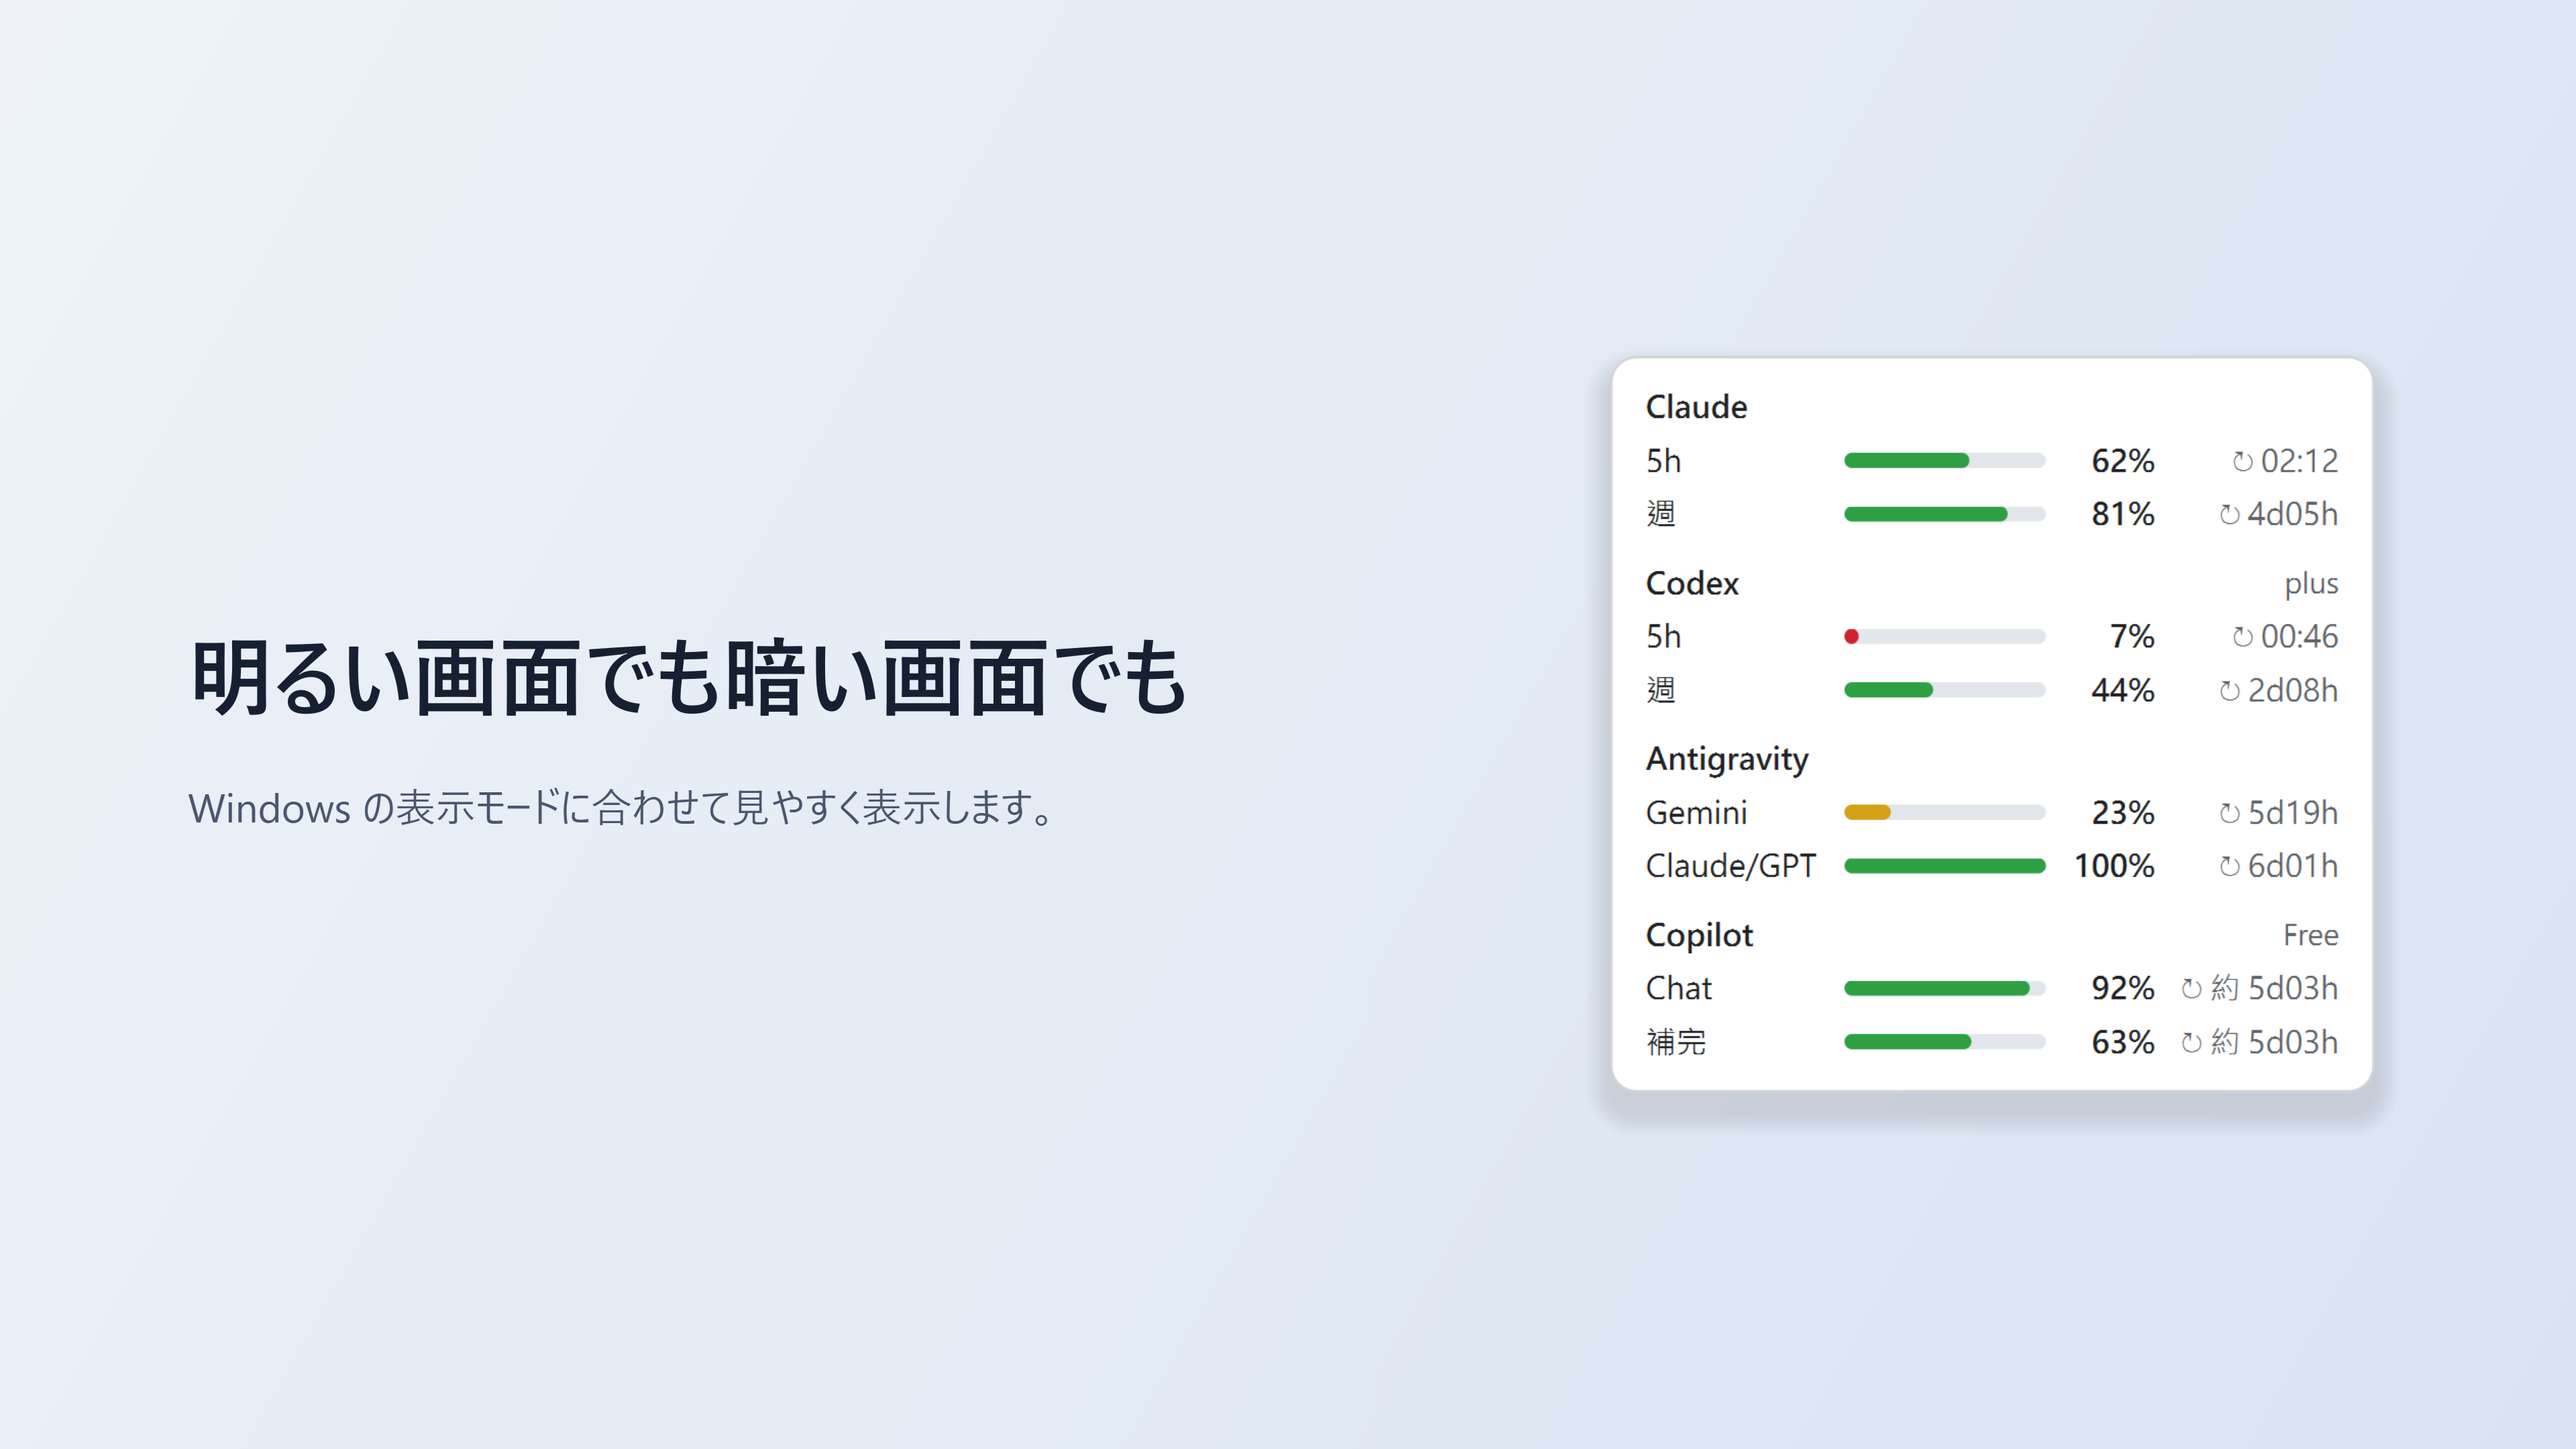
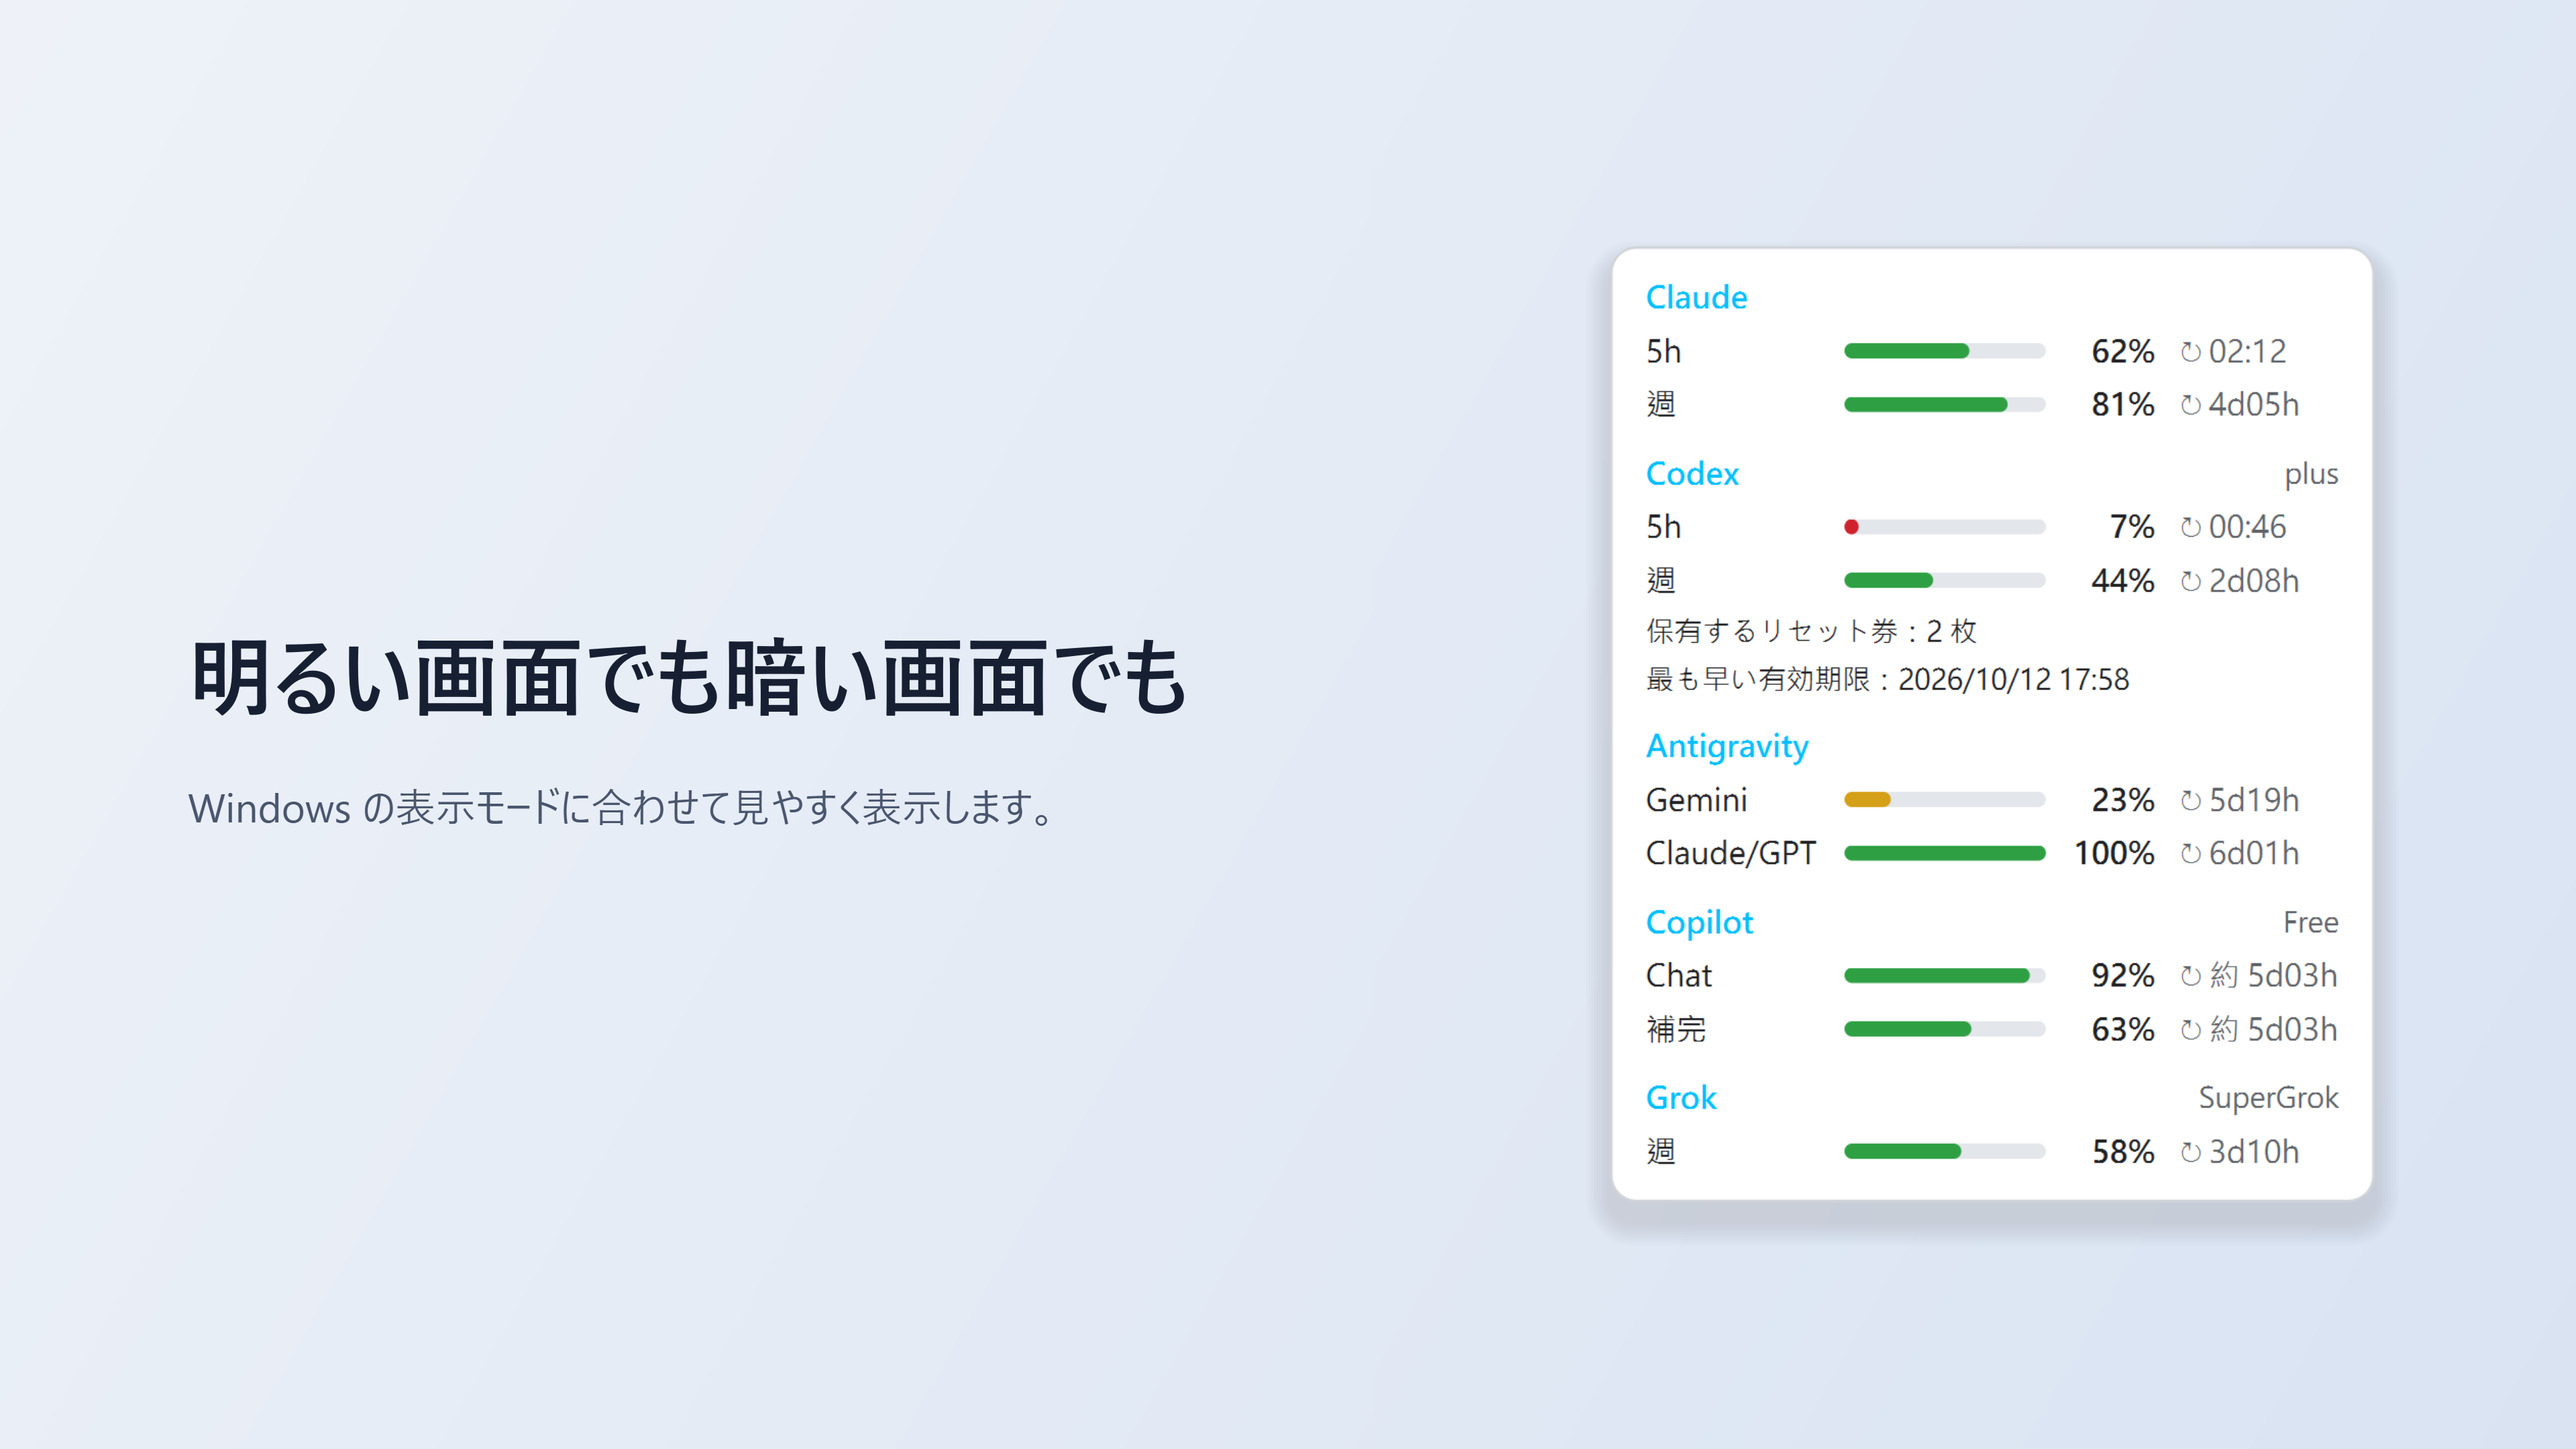
商店截圖換新版（重置券、淺藍服務名稱、Grok）；示範資料補 Codex 重置券
業主要求截圖要有 0.1.2 的重置券與新的服務名稱顏色。demo.py 的 Codex 範例加上
reset_credits_count／reset_credits_next_expiry，store_shots.py 重畫五語 15 張，
已在 Partner Center Submission 4 原位替換。上傳的 0.1.4.0 套件是在這個 demo 改動之前
打包的，App 內示範模式要下次打包才會看到重置券。

Changed region(s): [[0.625, 0.1551, 0.9375, 0.8685]]

diff --git a/ai_quota_tray/demo.py b/ai_quota_tray/demo.py
@@ -25,7 +25,8 @@ def sample_states(now: datetime) -> list[tuple[str, ProviderState]]:
         ("codex", ProviderState("codex", [
             make_window(93, at(47 * 60), 5 * _H),       # 剩 7%：紅色
             make_window(56, at(2 * _D + 9 * _H), 7 * _D),
-        ], now, OK, {"plan_type": "plus"}, source="demo")),
+        ], now, OK, {"plan_type": "plus", "reset_credits_count": 2,  # 0.1.2 的重置券也要看得到
+                     "reset_credits_next_expiry": at(9 * _D + 5 * _H).isoformat()}, source="demo")),
         ("antigravity", ProviderState("antigravity", [
             make_window(77, at(5 * _D + 20 * _H), 7 * _D, label="Gemini"),   # 剩 23%：黃色
             make_window(0, at(6 * _D + 2 * _H), 7 * _D, label="Claude/GPT"),

diff --git a/CLAUDE.md b/CLAUDE.md
@@ -107,6 +107,7 @@ powershell -ExecutionPolicy Bypass -File packaging\build.ps1  # 打包 → dist\
 - 隱私權政策／產品頁（fish-zero-web `9cef45b`，已上線）：Grok 列進「啟動的官方工具」、補「正在使用時最快每 25 秒查一次、停用 90 秒補查、鎖定／螢幕關閉／5 分鐘沒動不查」、補「為了判斷正在用哪個工具，只看檔案修改時間、不讀內容」、免責加 xAI；smoke 測試鎖住。
 - 商店文案：`docs/store-listing-0.1.4.md`（五語新增功能＋說明逐句替換）；`docs/store-listing.md` §5 runFullTrust、§6 認證注意事項已同步（加 Grok、「五個服務」、活動偵測只看修改時間）。
 - 真 CLI 實測（2026-10-03）：probe 回 `ok`、週 29%、SuperGrok、`source=grok-cli`，查完沒有殘留 grok 行程。unittest 222 過。
+- ⏸ **Submission 4（0.1.4.0，ID `1152921505702033238`）2026-10-03 填好、等業主確認送出**：套件業主拖入（0.1.3.0 已移除，⚠ 套件頁那個 Save 用 ref 點沒生效、用座標點才存進去）；五語「此版本新增功能」、說明三句、功能一條照 `docs/store-listing-0.1.4.md` 改；五語截圖 15 張原位替換成新版（重置券、淺藍名稱、Grok）；「其他測試資訊」加 Grok、「all five services」。每一頁都重新載入核對過。💡 這次清單頁的 textarea／input 沒有 `name`（英文頁第一次載入有），要用索引：0＝說明、1＝新增功能、2～13＝功能、16＝簡短描述。💡 截圖替換：`img[alt=listing-screenshot-image]` 的 data URI 解碼後大小＝本機 PNG 大小，可以拿來確認換成功。⚠ 送審沒跑 WACK（0.1.3.0 PASS 之後只改 Python 碼）；套件身分的 Grok 實測也沒做（要先移除業主帳號的 Store 版）。
 
 **下次開工：MSIX 上線版**（業主 2026-09-25 收工時說下次再處理；細節見 §5）
 
